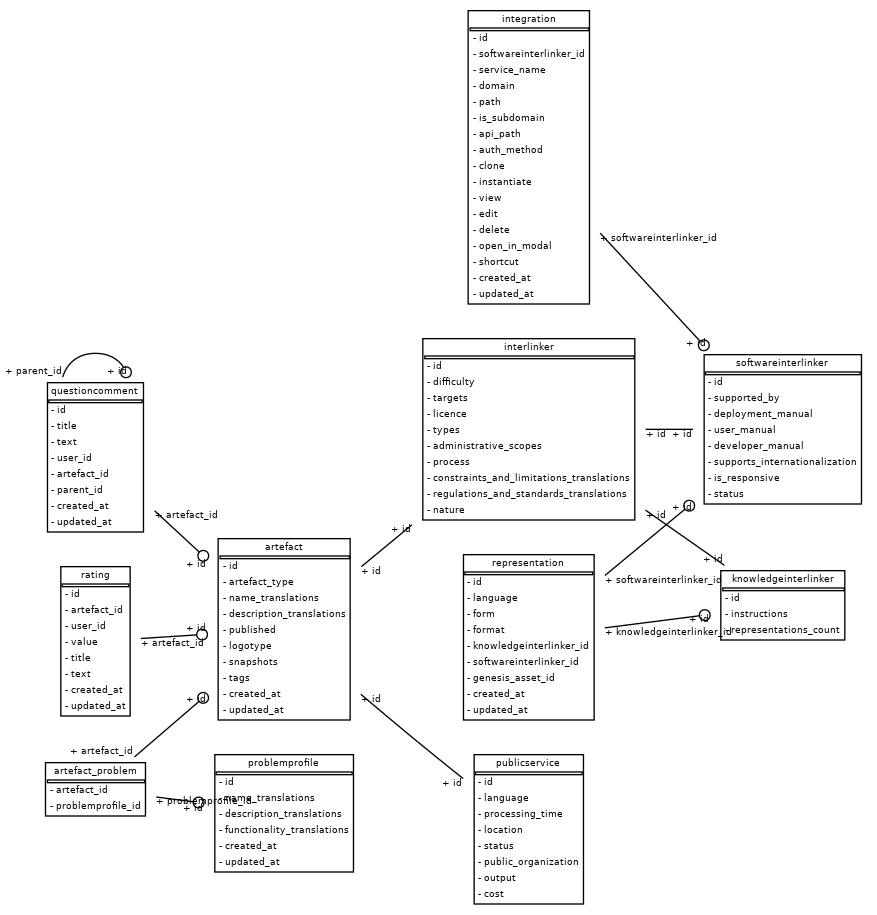
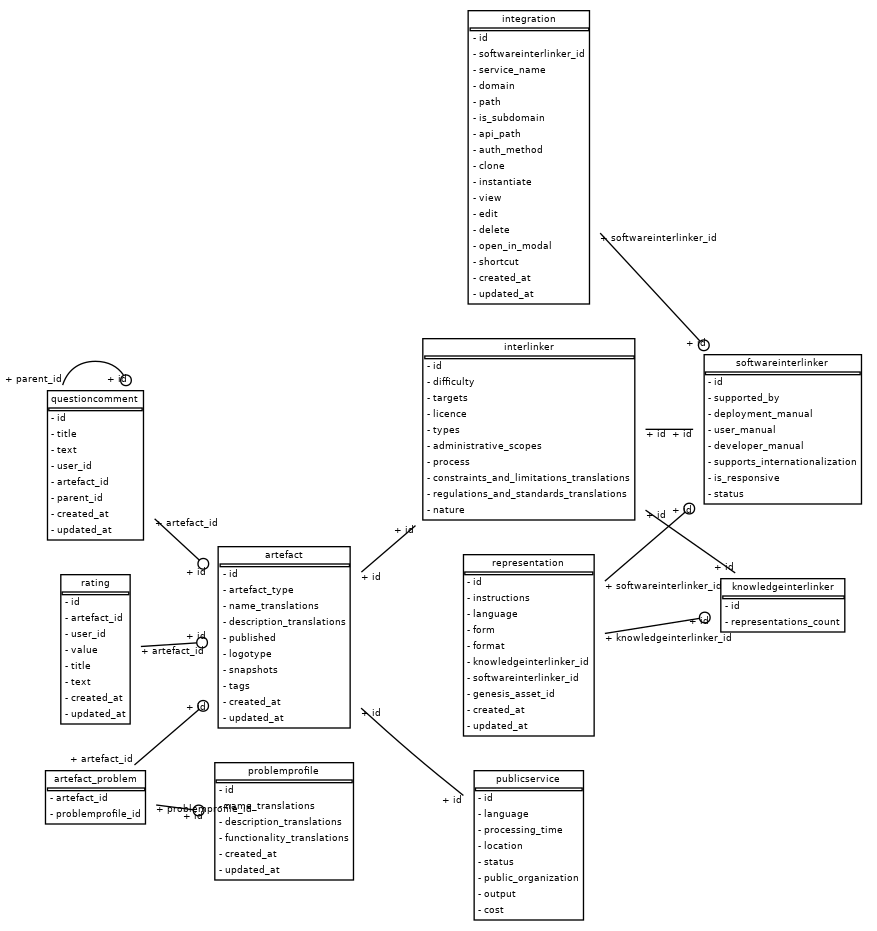
Instructions inside representation

diff --git a/catalogue/app/initial_data.py b/catalogue/app/initial_data.py
@@ -132,12 +132,6 @@ def create_interlinker(metadata_path):
         # set nature
         data["nature"] = "knowledgeinterlinker"
 
-        # get instructions file contents if IS FILE PATH
-        if not "http" in data["instructions"]:
-            filename = path_leaf(data["instructions"])
-            with open(str(folder) + "/" + filename, 'r') as f:
-                data["instructions"] = f.read()
-
         # create knowledge interlinker
         knowledgeinterlinker = crud.interlinker.create(
                 db=db,
@@ -145,43 +139,50 @@ def create_interlinker(metadata_path):
             )
 
         # loop over representations and create them
-        for representation in data["representations"]:
-            # get file contents in file and send to the software interlinker
-
-            service = representation["softwareinterlinker"]
-            softwareinterlinker = crud.interlinker.get_softwareinterlinker_by_service_name(db=db, service_name=service)
-            if not softwareinterlinker:
-                print(f"\t{bcolors.FAIL}there is no {service} softwareinterlinker")
-                return
-            
-            try:
-                print(f"\tis {service} supported knowledge interlinker")
-
-                filename = path_leaf(representation["file"])
-                short_filename, file_extension = os.path.splitext(filename)
-                
-                if "json" in file_extension:
+        for language, representations_list in data["representations"].items():
+            for representation in representations_list:
+                representation["language"] = language
+                # get instructions file contents if IS FILE PATH
+                if not "http" in representation["instructions"]:
+                    filename = path_leaf(representation["instructions"])
                     with open(str(folder) + "/" + filename, 'r') as f:
-                        response = requests.post(
-                            f"http://{service}/assets", data=f.read()).json()
-                else:
-                    files_data = {'file': (name + file_extension, open(str(folder) + "/" + filename, "rb").read())}
-                    response = requests.post(
-                        f"http://{service}/assets", files=files_data).json()
+                        representation["instructions"] = f.read()
 
-                print(f"ANSWER FOR {service}")
-                print(response)
-                representation["knowledgeinterlinker_id"] = knowledgeinterlinker.id
-                representation["softwareinterlinker_id"] = softwareinterlinker.id
-                representation["genesis_asset_id"] = response["id"] if "id" in response else response["_id"]
-                print(f"\t{bcolors.HEADER}Representation with {service} created successfully!{bcolors.ENDC}")
-                crud.representation.create(
-                    db=db,
-                    representation=schemas.RepresentationCreate(**representation)
-                )
-            except Exception as e:
-                error = True
-                print(f"\t{bcolors.FAIL}{str(e)}{bcolors.ENDC}")
+                # get file contents in file and send to the software interlinker
+                service = representation["softwareinterlinker"]
+                softwareinterlinker = crud.interlinker.get_softwareinterlinker_by_service_name(db=db, service_name=service)
+                if not softwareinterlinker:
+                    print(f"\t{bcolors.FAIL}there is no {service} softwareinterlinker")
+                    return
+                
+                try:
+                    print(f"\tis {service} supported knowledge interlinker")
+
+                    filename = path_leaf(representation["file"])
+                    short_filename, file_extension = os.path.splitext(filename)
+                    
+                    if "json" in file_extension:
+                        with open(str(folder) + "/" + filename, 'r') as f:
+                            response = requests.post(
+                                f"http://{service}/assets", data=f.read()).json()
+                    else:
+                        files_data = {'file': (name + file_extension, open(str(folder) + "/" + filename, "rb").read())}
+                        response = requests.post(
+                            f"http://{service}/assets", files=files_data).json()
+
+                    print(f"ANSWER FOR {service}")
+                    print(response)
+                    representation["knowledgeinterlinker_id"] = knowledgeinterlinker.id
+                    representation["softwareinterlinker_id"] = softwareinterlinker.id
+                    representation["genesis_asset_id"] = response["id"] if "id" in response else response["_id"]
+                    print(f"\t{bcolors.HEADER}Representation with {service} created successfully!{bcolors.ENDC}")
+                    crud.representation.create(
+                        db=db,
+                        representation=schemas.RepresentationCreate(**representation)
+                    )
+                except Exception as e:
+                    error = True
+                    print(f"\t{bcolors.FAIL}{str(e)}{bcolors.ENDC}")
 
             if error:
                 crud.interlinker.remove(db=db, id=knowledgeinterlinker.id)

diff --git a/catalogue/app/interlinkers/schemas.py b/catalogue/app/interlinkers/schemas.py
@@ -63,7 +63,7 @@ class BaseInterlinkerOut(ArtefactOut, BaseInterlinkerORM):
 ###
 
 class SoftwareBaseInterlinkerBase(BaseInterlinkerBase):
-    nature: Literal["softwareinterlinker"]
+    nature: Literal["softwareinterlinker"] = "softwareinterlinker"
 
     supported_by: List[Supporters]
     deployment_manual: Optional[str]
@@ -112,8 +112,7 @@ class SoftwareInterlinkerOut(BaseInterlinkerOut, SoftwareBaseInterlinkerORM):
 
 
 class KnowledgeBaseInterlinkerBase(BaseInterlinkerBase):
-    nature: Literal["knowledgeinterlinker"]
-    instructions: str
+    nature: Literal["knowledgeinterlinker"] = "knowledgeinterlinker"
 
 
 class KnowledgeInterlinkerCreate(BaseInterlinkerCreate, KnowledgeBaseInterlinkerBase):
@@ -139,18 +138,18 @@ class KnowledgeInterlinkerOut(BaseInterlinkerOut, KnowledgeBaseInterlinkerORM):
     pass
 
 InterlinkerCreate = Annotated[
-    Union[KnowledgeInterlinkerCreate, SoftwareInterlinkerCreate],
+    Union[SoftwareInterlinkerCreate, KnowledgeInterlinkerCreate],
     Field(discriminator="nature"),
 ]
 
 InterlinkerPatch = Annotated[
-    Union[KnowledgeInterlinkerPatch, SoftwareInterlinkerPatch],
+    Union[SoftwareInterlinkerPatch, KnowledgeInterlinkerPatch],
     Field(discriminator="nature"),
 ]
 
 
 class InterlinkerOut(BaseModel):
     __root__: Annotated[
-        Union[KnowledgeInterlinkerOut, SoftwareInterlinkerOut],
+        Union[SoftwareInterlinkerOut, KnowledgeInterlinkerOut],
         Field(discriminator="nature"),
     ]

diff --git a/catalogue/app/api/api_v1/representations.py b/catalogue/app/api/api_v1/representations.py
@@ -65,9 +65,14 @@ def clone_representation(
     if not representation:
         raise HTTPException(status_code=404, detail="Representation not found")
 
-    external_info = requests.post(representation.link + "/clone", headers={
-        "Authorization": "Bearer " + token
-    }).json()
+    try:
+        external_info = requests.post(representation.internal_link + "/clone", headers={
+            "Authorization": "Bearer " + token
+        }).json()
+    except:
+        external_info = requests.post(representation.link + "/clone", headers={
+            "Authorization": "Bearer " + token
+        }).json()
     return external_info
 
 @router.put("/{id}", response_model=schemas.RepresentationOut)
@@ -121,9 +126,16 @@ def read_external_asset(
     representation = crud.representation.get(db=db, id=id)
     if not representation:
         raise HTTPException(status_code=404, detail="Representation not found")
-    return requests.get(representation.link, headers={
-        "Authorization": "Bearer " + token
-    }).json()
+
+    try:
+        return requests.get(representation.internal_link, headers={
+            "Authorization": "Bearer " + token
+        }).json()
+    except:
+        return requests.get(representation.link, headers={
+            "Authorization": "Bearer " + token
+        }).json()
+    
 
 @router.delete("/{id}", response_model=schemas.RepresentationOut)
 def delete_representation(

diff --git a/catalogue/app/representations/crud.py b/catalogue/app/representations/crud.py
@@ -9,6 +9,7 @@ class CRUDRepresentation(CRUDBase[Representation, RepresentationCreate, Represen
     def create(self, db: Session, *, representation: RepresentationCreate) -> Representation:
         db_obj = Representation(
             knowledgeinterlinker_id=representation.knowledgeinterlinker_id,
+            instructions=representation.instructions,
             form=representation.form,
             language=representation.language,
             format=representation.format,

diff --git a/catalogue/app/interlinkers/crud.py b/catalogue/app/interlinkers/crud.py
@@ -70,7 +70,6 @@ class CRUDInterlinker(CRUDBase[Interlinker, InterlinkerCreate, InterlinkerPatch]
             db_obj = SoftwareInterlinker(**data)
         if type(interlinker) == KnowledgeInterlinkerCreate:
             print("IS KNOWLEDGE")
-            data["instructions"] = interlinker.instructions
             db_obj = KnowledgeInterlinker(**data)
         db.add(db_obj)
         db.commit()

diff --git a/catalogue/app/representations/models.py b/catalogue/app/representations/models.py
@@ -11,7 +11,8 @@ class Representation(BaseModel):
     Defines the representations model
     """
     id = Column(UUID(as_uuid=True), primary_key=True, default=uuid.uuid4)
-
+    instructions = Column(String)
+    
     language = Column(String)
     form = Column(String)
     format = Column(String)

diff --git a/catalogue/app/representations/schemas.py b/catalogue/app/representations/schemas.py
@@ -19,6 +19,7 @@ class RepresentationBase(BaseModel):
     genesis_asset_id: str
     form: FormTypes
     format: Formats
+    instructions: str
 
 class RepresentationCreate(RepresentationBase):
     knowledgeinterlinker_id: uuid.UUID

diff --git a/catalogue/app/interlinkers/models.py b/catalogue/app/interlinkers/models.py
@@ -119,8 +119,6 @@ class KnowledgeInterlinker(Interlinker):
         primary_key=True,
         default=uuid.uuid4,
     )
-    
-    instructions = Column(String)
 
     representations = relationship(
         "Representation",
